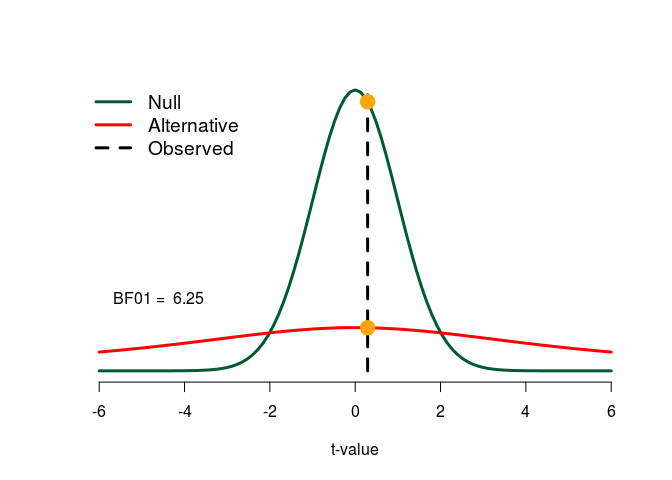
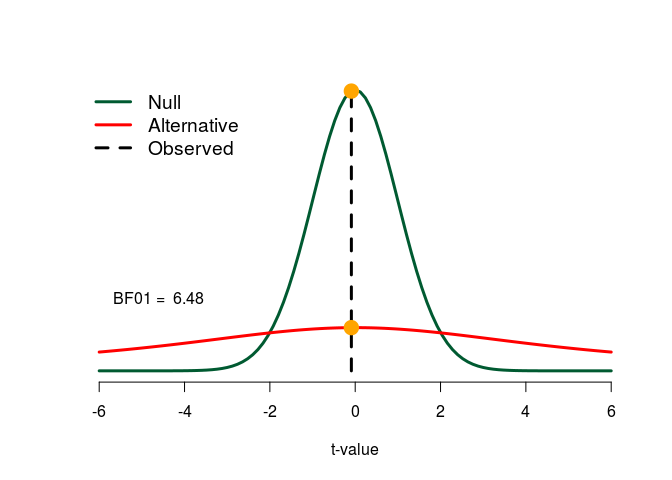
fixed error in readme

diff --git a/README.md b/README.md
@@ -113,7 +113,7 @@ visualize_predictions(n1 = groupn, n2 = groupn, observed_t = tvalue, BF10 = FALS
 
 ![](README_files/figure-markdown_github/unnamed-chunk-10-1.png)
 
-Here, I sample 100 observations per group that do not differ in their population mean, i.e., the effect size in the population is zero. More often than not, I will obtain a Bayes factor that favors the null hypothesis over the alternative hypothesis. To illustrate the evidence in favor of the null as compared to the null hypothesis, I set the argument `BF10` to `FALSE`; run the code to see what happens when this is not done .
+Here, I sample 100 observations per group that do not differ in their population mean, i.e., the effect size in the population is zero. More often than not, I will obtain a Bayes factor that favors the null hypothesis over the alternative hypothesis. To illustrate the evidence in favor of the null as compared to the alternative hypothesis, I set the argument `BF10` to `FALSE`; run the code to see what happens when this is not done .
 
 Using the function `marginal_likelihood` from the package `bayesEd`, we can compute this Bayes factor as the ratio of two marginal likelihoods:
 
@@ -124,8 +124,8 @@ BF01 <- null_marginal / alt_marginal
 BF01
 ```
 
-    ##       t 
-    ## 6.24709
+    ##        t 
+    ## 6.475811
 
 Here, the probability of the data under the null hypothesis is given by the probability density function for the t distribution `dt`. To compute the probability of the data under the alternative hypothesis, we use the function `marginal_likelihood`. As the previous functions that we saw (`visualize_prior` and `visualize_predictions`), `marginal_likelihood` also has an argument `alternative` that specifies the prior distribution for the alternative hypothesis. It also has the same Cauchy default.
 
@@ -133,12 +133,25 @@ I encourage to use the package `BayesFactor` to compute Bayes factors for the t-
 
 ``` r
 library("BayesFactor")
+```
+
+    ## Loading required package: coda
+
+    ## Loading required package: Matrix
+
+    ## ************
+    ## Welcome to BayesFactor 0.9.12-4.2. If you have questions, please contact Richard Morey (richarddmorey@gmail.com).
+    ## 
+    ## Type BFManual() to open the manual.
+    ## ************
+
+``` r
 1 / ttestBF(group1, group2) # inverse Bayes factor; evidence for null hypothesis
 ```
 
     ## Bayes factor analysis
     ## --------------
-    ## [1] Null, mu1-mu2=0 : 6.24709 ±0%
+    ## [1] Null, mu1-mu2=0 : 6.475811 ±0%
     ## 
     ## Against denominator:
     ##   Alternative, r = 0.707106781186548, mu =/= 0 
